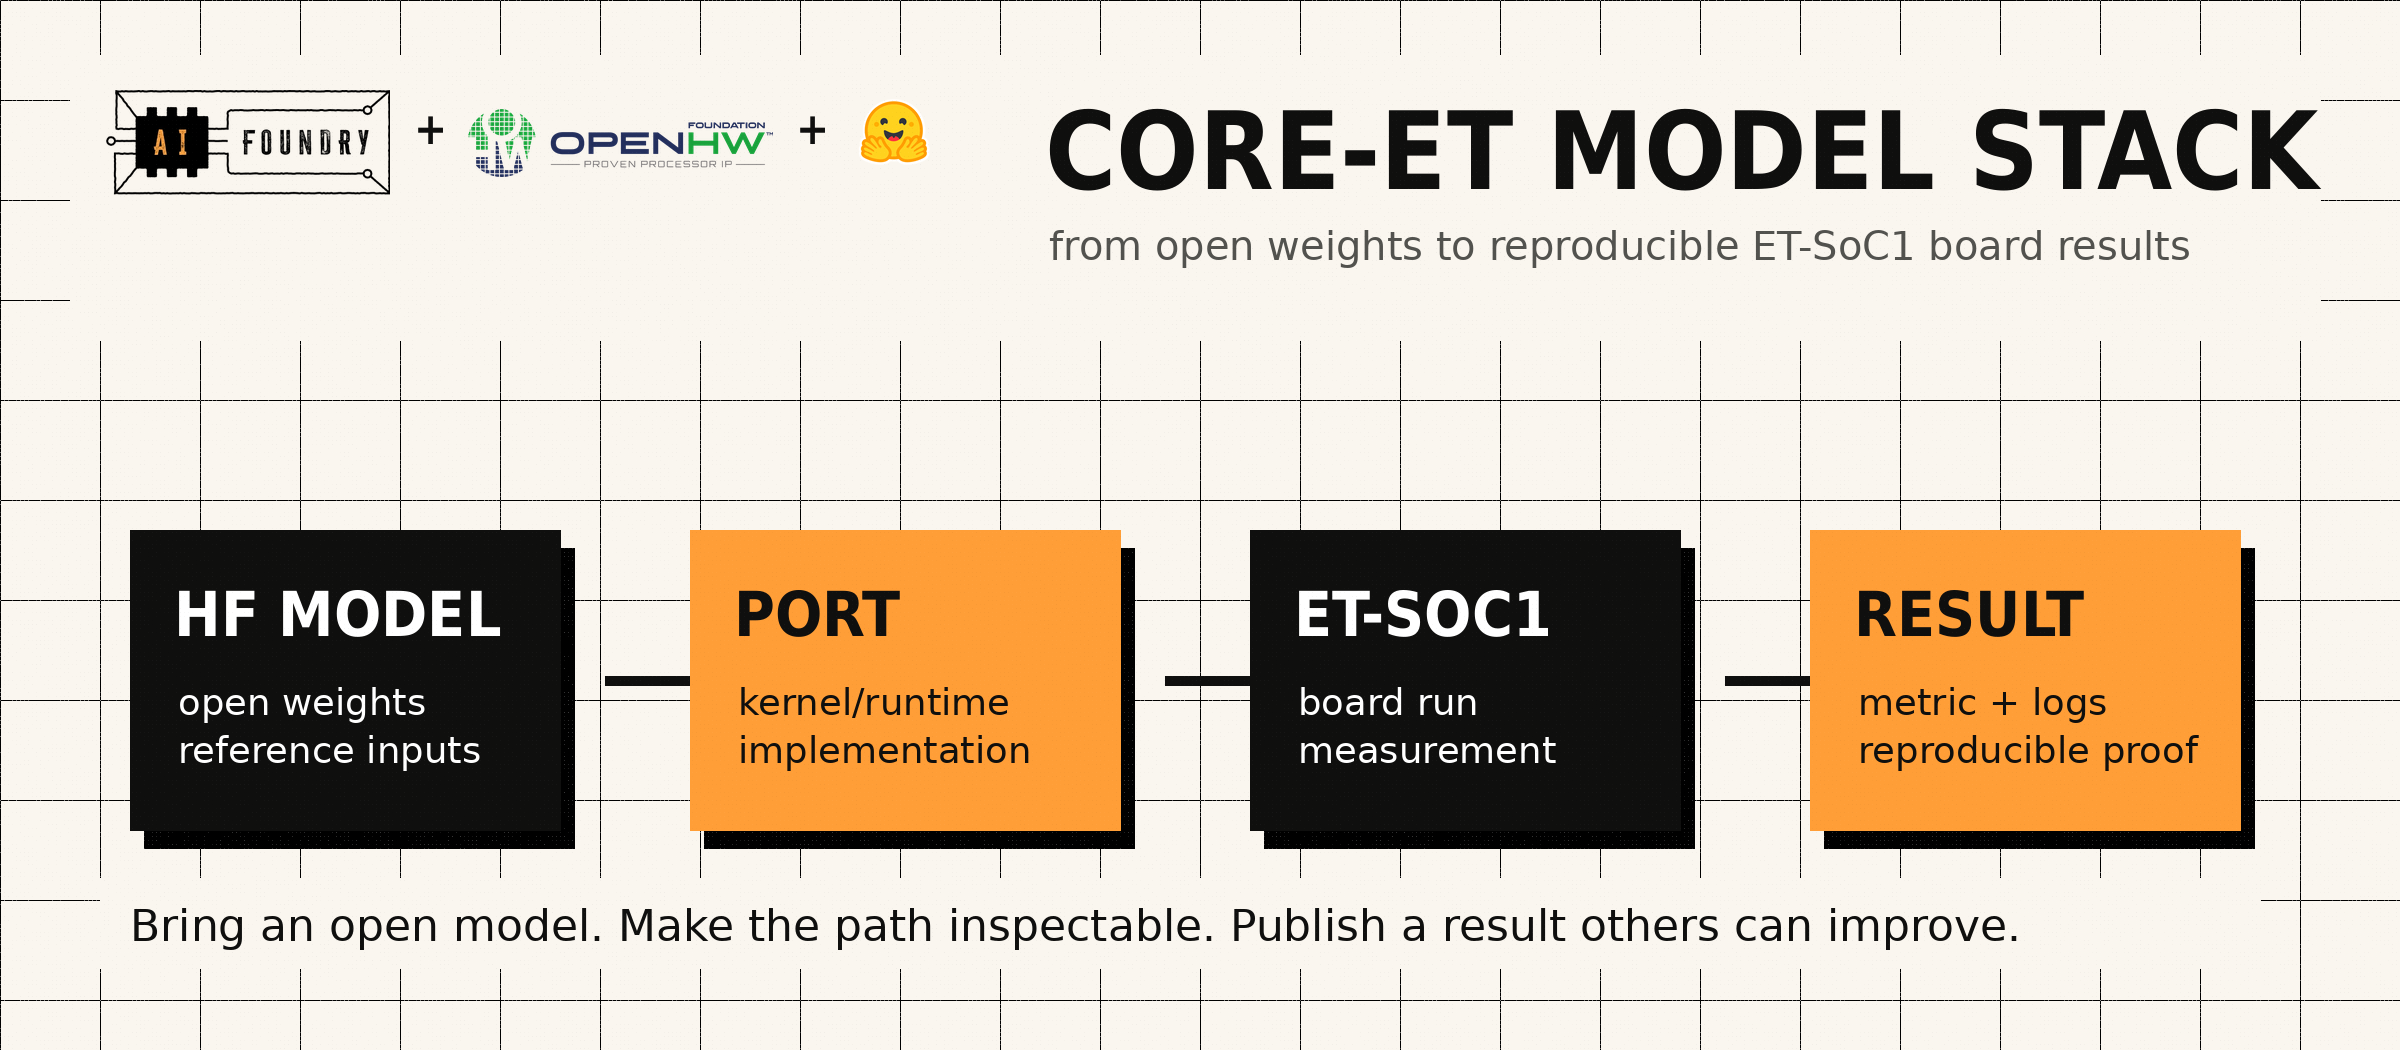
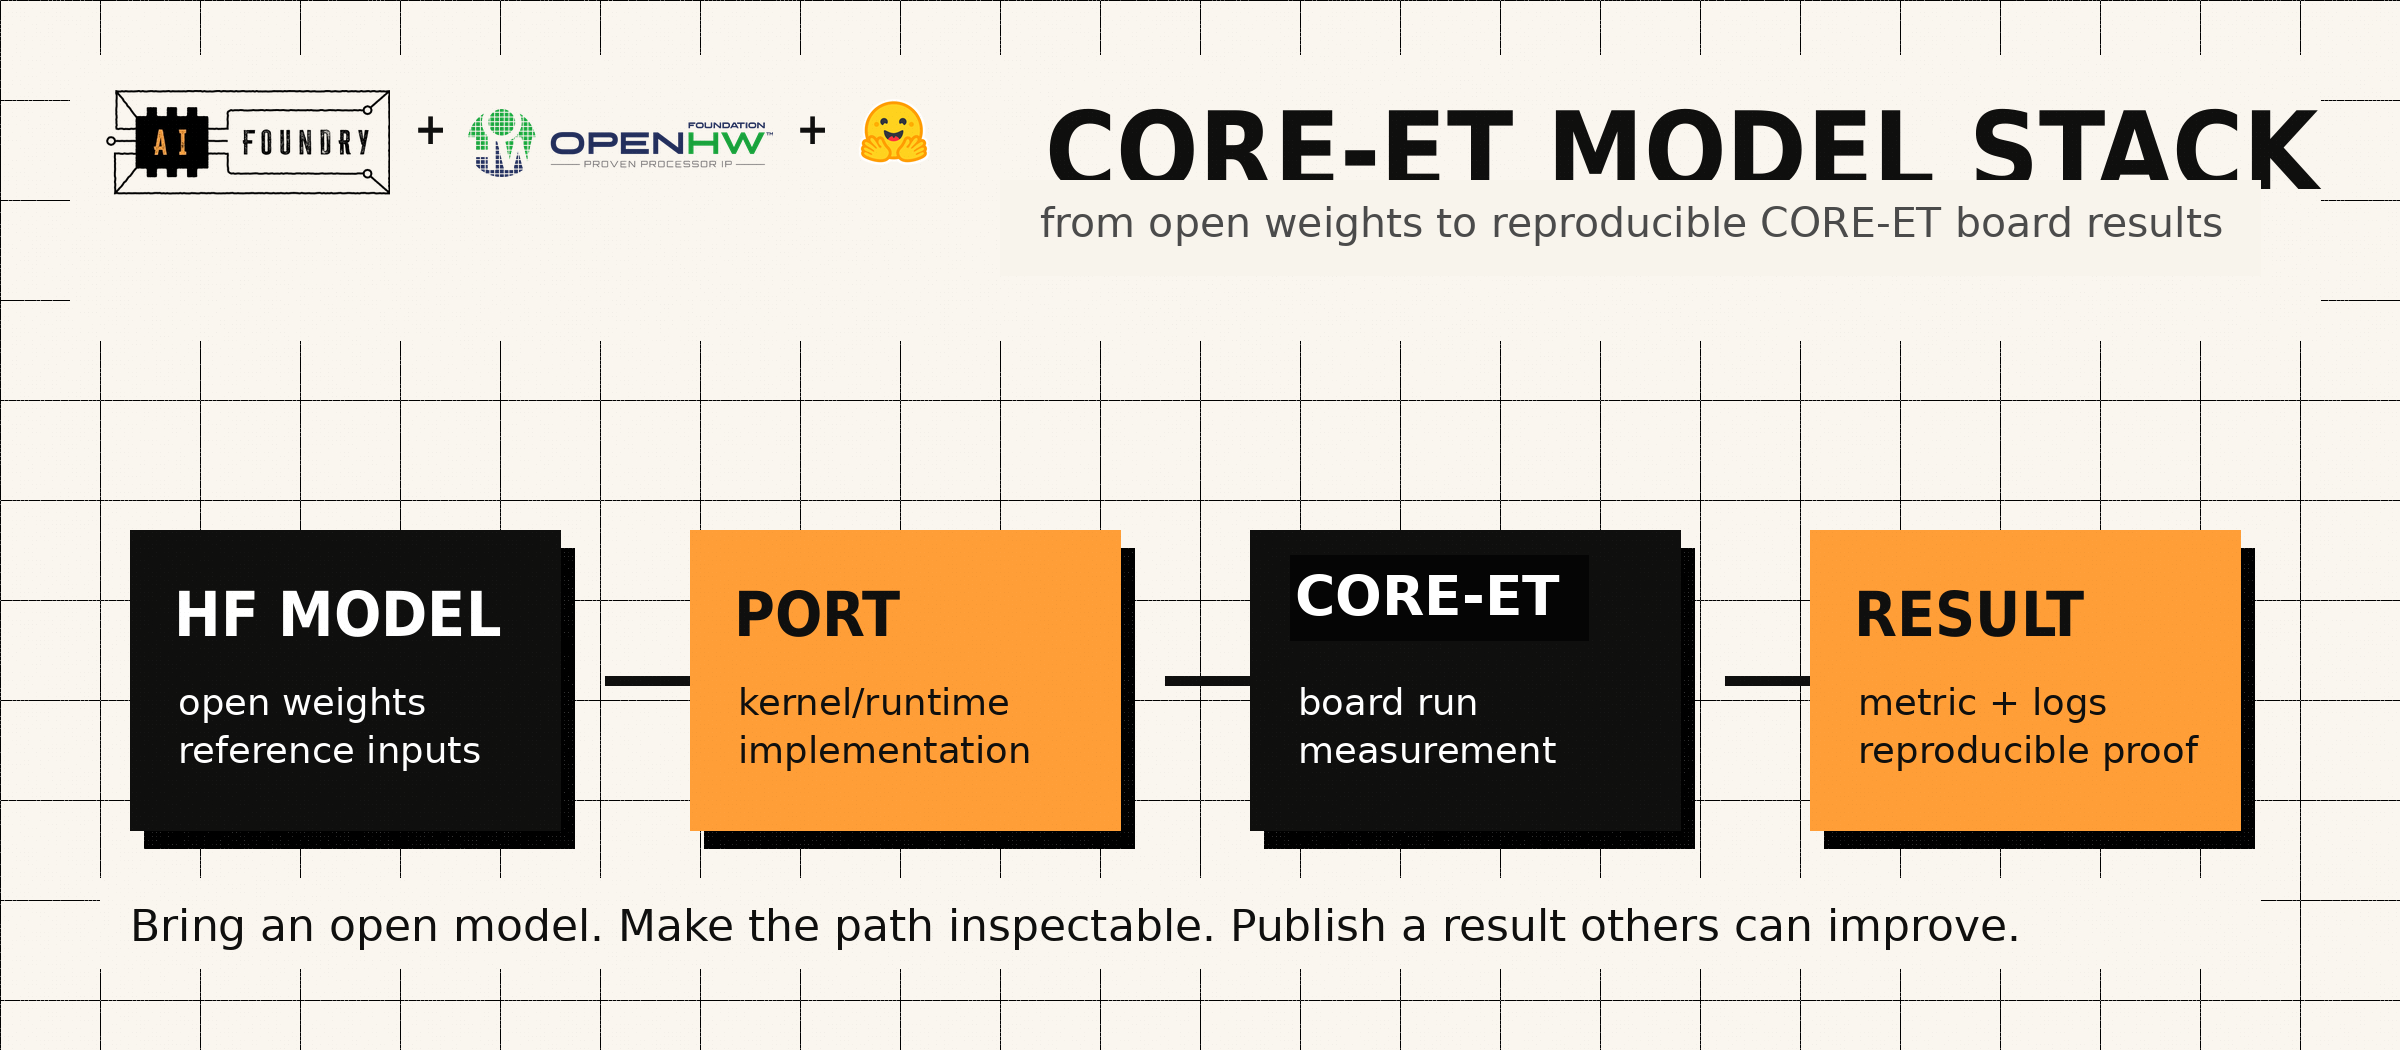
Fix CORE-ET quickstart launcher flow

Changed region(s): [[0.4375, 0.1524, 0.9375, 0.2438], [0.5312, 0.5486, 0.6562, 0.6095]]

diff --git a/.github/ci/platform/et_jobs/runner.py b/.github/ci/platform/et_jobs/runner.py
@@ -72,8 +72,8 @@ def resolve_zero_bin() -> str:
     if config.ZERO_BIN and Path(config.ZERO_BIN).is_file():
         return config.ZERO_BIN
     for p in [
-        config.REPO_ROOT / "local-artifacts/erbium_amp_probe/zero2m.bin",
-        config.REPO_ROOT / "local-artifacts/erbium_amp_probe/dncnn3-bench/zero2m.bin",
+        config.MODEL_PORT_ARTIFACTS / "zero2m.bin",
+        config.MODEL_PORT_ARTIFACTS / "dncnn3-bench/zero2m.bin",
     ]:
         if p.is_file():
             return str(p)
@@ -183,7 +183,7 @@ def _resolve_smoke_elf() -> str:
         return elf
     for alt in [
         config.REPO_ROOT / "local-artifacts/kernels/histogram.erbium-soc1sim.elf",
-        config.REPO_ROOT / "local-artifacts/erbium_amp_probe/yolo-bench/y10_00_base.elf",
+        config.MODEL_PORT_ARTIFACTS / "yolo-bench/y10_00_base.elf",
     ]:
         if alt.is_file():
             return str(alt)
@@ -241,12 +241,12 @@ def run_board_benchmark_legacy(job_id: str, model: str) -> dict:
         variant = cfg["models"][model]["canonical_variant"]
         bench_dir = cfg["models"][model]["bench_dir"]
         elf_name = f"{variant}.elf"
-        amp = config.REPO_ROOT / "local-artifacts/erbium_amp_probe" / bench_dir / elf_name
-        if not amp.is_file():
+        elf = config.MODEL_PORT_ARTIFACTS / bench_dir / elf_name
+        if not elf.is_file():
             raise FileNotFoundError(f"ELF not found for board run: {elf_name}")
         extra = []
         if model == "dncnn":
-            base = config.REPO_ROOT / "local-artifacts/erbium_amp_probe/dncnn3-bench"
+            base = config.MODEL_PORT_ARTIFACTS / "dncnn3-bench"
             for name, off in [("dncnn3_input.bin", "0x2000"), ("dncnn3_weights.bin", "0x4000")]:
                 p = base / name
                 if p.is_file():
@@ -254,7 +254,7 @@ def run_board_benchmark_legacy(job_id: str, model: str) -> dict:
         return run_kernel(
             job_id=job_id,
             device="soc1sim",
-            elf=str(amp),
+            elf=str(elf),
             stage="board",
             extra_file_loads=extra or None,
         )

diff --git a/.github/ci/platform/et_jobs/config.py b/.github/ci/platform/et_jobs/config.py
@@ -22,6 +22,13 @@ API_BIND = os.environ.get("JOBS_BIND", "127.0.0.1:8080")
 API_URL = os.environ.get("JOBS_API_URL", f"http://{API_BIND}")
 HOST_ID = os.environ.get("HOST_ID", "localhost")
 REPO_ROOT = _path("JOBS_REPO_ROOT", str(Path(__file__).resolve().parents[4]))
+MODEL_PORT_ARTIFACTS = _path(
+    "BENCHMARK_ARTIFACT_ROOT",
+    os.environ.get(
+        "AMP_ROOT",
+        str(REPO_ROOT / "local-artifacts" / "model-port-benchmarks"),
+    ),
+)
 BENCHMARK_CONFIG = _path(
     "BENCHMARK_CONFIG",
     str(REPO_ROOT / ".github" / "ci" / "benchmark_config.json"),

diff --git a/docs/ET_SOC1_QUICKSTART.md b/docs/ET_SOC1_QUICKSTART.md
@@ -42,6 +42,7 @@ export CORE_ET_SRC="$WORK_ROOT/core-et"
 export ET_INSTALL="$WORK_ROOT/et"
 export BUILD_ROOT="$WORK_ROOT/build"
 export ARTIFACT_ROOT="$MODEL_PORT_REPO/local-artifacts"
+export BENCHMARK_ARTIFACT_ROOT="$ARTIFACT_ROOT/model-port-benchmarks"
 
 # Set this to the ET-SoC1 board host assigned to you.
 export BOARD_HOST="<your-et-soc1-board-host>"
@@ -103,10 +104,9 @@ export PATH="$ET_INSTALL/bin:$PATH"
 Verify:
 
 ```bash
+cd "$MODEL_PORT_REPO"
 riscv64-unknown-elf-gcc --version | head -1
-test -f "$ET_PLATFORM_SRC/et-common-libs/share/erbium-soc1sim/erbium.ld"
-test -d "$ET_PLATFORM_SRC/et-common-libs/include"
-test -d "$ET_PLATFORM_SRC/hal/platform/etsoc/include"
+.github/ci/scripts/resolve_et_platform_paths.sh
 ```
 
 ## Download Hugging Face References
@@ -126,22 +126,43 @@ way.
 
 ## Build The Argbuf Launcher
 
-The model-port runs use `erbium_soc1sim_argbuf`. Build it with the installed
-AIFoundry runtime:
+The model-port runs use `erbium_soc1sim_argbuf_dynmem`. Build the launcher from
+the checked-in source under `.github/ci/launcher`. Do not build it from
+`local-artifacts/`; that tree contains generated benchmark outputs and will not
+exist in a fresh clone.
 
 ```bash
 cd "$MODEL_PORT_REPO"
-mkdir -p "$BUILD_ROOT"
+export ET_PLATFORM="$ET_INSTALL"
 
-cmake -S "$ARTIFACT_ROOT/erbium_amp_probe/whisper-real/host-dynmem" \
-  -B "$BUILD_ROOT/erbium_soc1sim_argbuf" \
-  -DCMAKE_PREFIX_PATH="$ET_INSTALL" \
-  -DCMAKE_INSTALL_PREFIX="$ET_INSTALL"
-cmake --build "$BUILD_ROOT/erbium_soc1sim_argbuf" -j"$(nproc)"
+.github/ci/scripts/build_launcher.sh
 
 export LOCAL_ARGBUF="$BUILD_ROOT/erbium_soc1sim_argbuf/erbium_soc1sim_argbuf_dynmem"
-"$LOCAL_ARGBUF" --help | head
+test -x "$LOCAL_ARGBUF"
+"$LOCAL_ARGBUF" --help 2>&1 | head -3
 ```
+
+## Build Smoke Artifacts
+
+`$BENCHMARK_ARTIFACT_ROOT` is created by the benchmark build flow. Build the
+canonical smoke ELFs before running sys-emu or staging files to the board:
+
+```bash
+cd "$MODEL_PORT_REPO"
+
+.github/ci/scripts/prepare_benchmark_inputs.sh all
+.github/ci/scripts/build_leaderboard_elf.sh yolo
+.github/ci/scripts/build_leaderboard_elf.sh whisper
+.github/ci/scripts/build_leaderboard_elf.sh dncnn
+
+find "$BENCHMARK_ARTIFACT_ROOT" -maxdepth 2 -type f \
+  \( -name '*.elf' -o -name '*_variants.txt' -o -name 'zero2m.bin' \) \
+  | sort
+```
+
+The DnCNN ELF builds from checked-in source, but a DnCNN run also needs derived
+input and weight blobs under `$BENCHMARK_ARTIFACT_ROOT/dncnn3-bench`. If those
+blobs are not present yet, run YOLO and Whisper first.
 
 ## Local Sys-Emu Run
 
@@ -154,25 +175,30 @@ cd "$MODEL_PORT_REPO"
 scripts/run_sysemu_model_ports.sh \
   --launcher "$LOCAL_ARGBUF" \
   --suite smoke \
+  --model yolo,whisper \
+  --variant y10_00_base,w10_00_base \
   --list
 ```
 
-Run model-port smoke jobs:
+Run the canonical YOLO and Whisper smoke jobs:
 
 ```bash
 scripts/run_sysemu_model_ports.sh \
   --launcher "$LOCAL_ARGBUF" \
   --suite smoke \
+  --model yolo,whisper \
+  --variant y10_00_base,w10_00_base \
   --timeout 1800 \
   --launcher-timeout 1800
 ```
 
-Larger suites:
+Larger suites need their matching variant ELFs and manifests under
+`$BENCHMARK_ARTIFACT_ROOT`. Check what is ready before running them:
 
 ```bash
-scripts/run_sysemu_model_ports.sh --launcher "$LOCAL_ARGBUF" --suite focused20 --timeout 3600 --launcher-timeout 3600
-scripts/run_sysemu_model_ports.sh --launcher "$LOCAL_ARGBUF" --suite focused20b --timeout 3600 --launcher-timeout 3600
-scripts/run_sysemu_model_ports.sh --launcher "$LOCAL_ARGBUF" --suite full --timeout 3600 --launcher-timeout 3600
+scripts/run_sysemu_model_ports.sh --launcher "$LOCAL_ARGBUF" --suite focused20 --model yolo,whisper --list
+scripts/run_sysemu_model_ports.sh --launcher "$LOCAL_ARGBUF" --suite focused20b --model yolo,whisper --list
+scripts/run_sysemu_model_ports.sh --launcher "$LOCAL_ARGBUF" --suite full --model yolo,whisper --list
 ```
 
 Sys-emu can be much slower than the board for the larger hand-C kernels.
@@ -206,24 +232,44 @@ ssh "$BOARD_SSH" "
 
 ## Stage A Smoke Suite
 
+These examples assume the smoke artifacts above exist under
+`$BENCHMARK_ARTIFACT_ROOT`.
+
+Common input used by YOLO, Whisper, and DnCNN:
+
+```bash
+ssh "$BOARD_SSH" "mkdir -p '$REMOTE_MODELS'"
+rsync -aq \
+  "$BENCHMARK_ARTIFACT_ROOT/zero2m.bin" \
+  "$BOARD_SSH:$REMOTE_MODELS/"
+```
+
 YOLO example:
 
 ```bash
 ssh "$BOARD_SSH" "mkdir -p '$REMOTE_MODELS/yolo-bench'"
 rsync -aq \
-  "$ARTIFACT_ROOT/erbium_amp_probe/yolo-bench"/y10_*.elf \
-  "$ARTIFACT_ROOT/erbium_amp_probe/yolo-bench/yolo_10_variants.txt" \
+  "$BENCHMARK_ARTIFACT_ROOT/yolo-bench"/y10_*.elf \
+  "$BENCHMARK_ARTIFACT_ROOT/yolo-bench/yolo_10_variants.txt" \
   "$BOARD_SSH:$REMOTE_MODELS/yolo-bench/"
 ```
 
 DnCNN example:
 
 ```bash
+test -f "$BENCHMARK_ARTIFACT_ROOT/dncnn3-bench/dncnn3_input.bin"
+test -f "$BENCHMARK_ARTIFACT_ROOT/dncnn3-bench/dncnn3_weights.bin"
+
 ssh "$BOARD_SSH" "mkdir -p '$REMOTE_MODELS/dncnn3-pmc'"
 rsync -aq \
-  "$ARTIFACT_ROOT/erbium_amp_probe/dncnn3-pmc"/v3x_*.elf \
-  "$ARTIFACT_ROOT/erbium_amp_probe/dncnn3-pmc/v3x_variants.txt" \
+  "$BENCHMARK_ARTIFACT_ROOT/dncnn3-pmc"/v3x_*.elf \
+  "$BENCHMARK_ARTIFACT_ROOT/dncnn3-pmc/v3x_variants.txt" \
   "$BOARD_SSH:$REMOTE_MODELS/dncnn3-pmc/"
+
+rsync -aq \
+  "$BENCHMARK_ARTIFACT_ROOT/dncnn3-bench/dncnn3_input.bin" \
+  "$BENCHMARK_ARTIFACT_ROOT/dncnn3-bench/dncnn3_weights.bin" \
+  "$BOARD_SSH:$REMOTE_MODELS/"
 ```
 
 Use the same pattern for `whisper-bench`: stage the `*10*.elf` files and the
@@ -324,7 +370,7 @@ using them or build with explicit variables like this:
 ```bash
 GCC="$ET_INSTALL/bin/riscv64-unknown-elf-gcc"
 INC="$ET_PLATFORM_SRC"
-ROOT="$ARTIFACT_ROOT/erbium_amp_probe"
+ROOT="$BENCHMARK_ARTIFACT_ROOT"
 
 "$GCC" \
   -O2 -nostdlib \